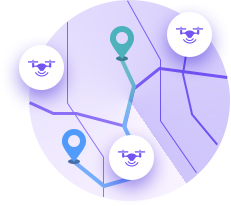
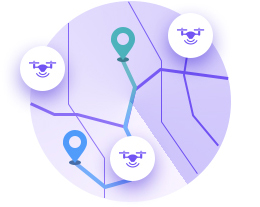
Technology page image fixes

diff --git a/css/style.css b/css/style.css
@@ -441,6 +441,9 @@ box-shadow: 0px 25px 68px 13px rgba(121,36,207,0.6);
     color: #FFF;
     text-decoration: none;
 }
+.triangle-techno{
+	width: 891px;
+}
 .technology-icons{
 	padding: 50px 0;
 }
@@ -1046,6 +1049,9 @@ margin: 0 0 30px;
 	.btn-download{
 		font-size: 20px;
 	}
+	.technology-icons img{
+		width: 100%;
+	}
 }
 @media only screen and (max-width: 1025px){
 	.nav li a:after{
@@ -1107,6 +1113,9 @@ margin: 0 0 30px;
 
 	.custom-panel > div{
 		padding: 35px 15px 15px;
+	}
+	.triangle-techno{
+		width: 100%;
 	}
 }
 @media only screen and (max-width: 767px){
@@ -1445,6 +1454,10 @@ margin: 0 0 30px;
 	}
 	.triangle-techno{
 		width: 90%;
+	}
+
+	.technology-icons img{
+		width: auto;
 	}
 	.downloadbtn{
 		width: 240px;
